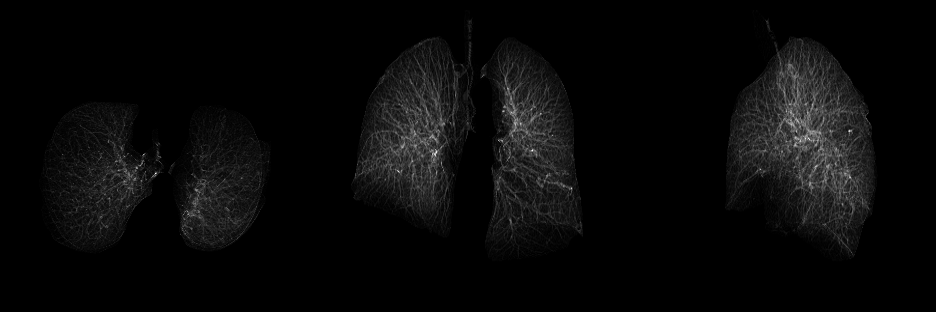
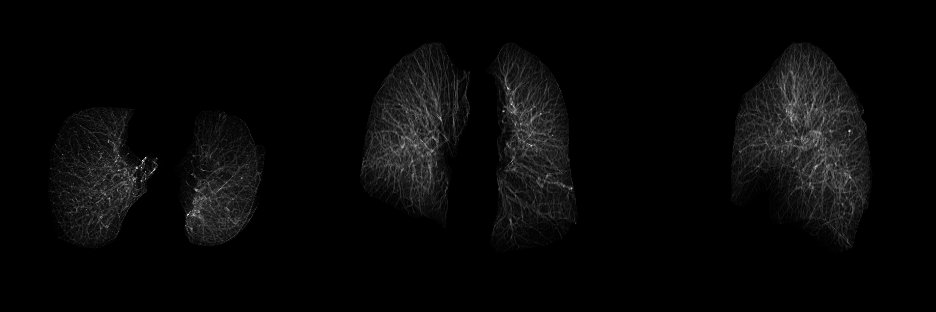
stay true to frangi

diff --git a/oldschool.py b/oldschool.py
@@ -7,12 +7,12 @@ import skfmm
 import SimpleITK as sitk
 
 # naive lungseg using image processing methods.
-def lung_seg(img_obj,kind=None):
+def lung_seg(img_obj,kind=None,iterations=None):
     
     arr = sitk.GetArrayFromImage(img_obj)
     spacing = img_obj.GetSpacing()
     origin = img_obj.GetOrigin()
-    direction = img_obj.GetDirection()  
+    direction = img_obj.GetDirection()
 
     bkgd = np.zeros(arr.shape).astype(np.uint8)
     pad = 5
@@ -39,14 +39,10 @@ def lung_seg(img_obj,kind=None):
         if contain_bkgd > 0:
             continue
         lung_mask[mask==1]=1
-    
+
     lung_mask = ndimage.morphology.binary_closing(lung_mask,iterations=5)
-    if kind == 'erode5':
-        lung_mask = ndimage.morphology.binary_erosion(lung_mask,iterations=5).astype(arr.dtype)
-    elif kind == 'erode1':
-        lung_mask = ndimage.morphology.binary_erosion(lung_mask,iterations=1).astype(arr.dtype)
-    elif kind  == 'dilate':
-        lung_mask = ndimage.morphology.binary_dilation(lung_mask,iterations=3).astype(arr.dtype)
+    if kind == 'erode':
+        lung_mask = ndimage.morphology.binary_erosion(lung_mask,iterations=iterations).astype(arr.dtype)
     else:
         pass
 
@@ -97,49 +93,47 @@ def lung_seg(img_obj,kind=None):
 
 def vessel_seg(img_obj):
 
+    spacing = img_obj.GetSpacing()
+    origin = img_obj.GetOrigin()
+    direction = img_obj.GetDirection()
+    
     # lungseg
-    lung_obj = lung_seg(img_obj,kind='erode5')
-    
-    img = sitk.GetArrayFromImage(img_obj).clip(-1000,1000).astype(np.float)
-    lung = sitk.GetArrayFromImage(lung_obj)
-    # mask non-lung
-    masked_img = img
-    masked_img[lung==0] = -1000
+    lung_obj = lung_seg(img_obj,kind='erode',iterations=1)
+    lung_mask = sitk.GetArrayFromImage(lung_obj)
 
-    masked_obj = sitk.GetImageFromArray(masked_img)
-    masked_obj.SetSpacing(img_obj.GetSpacing())
-    masked_obj.SetOrigin(img_obj.GetOrigin())
-    masked_obj.SetDirection(img_obj.GetDirection())
+    arr_list = []
+    for x in np.arange(0.5,3.5,1.0):
+        gaussian = sitk.SmoothingRecursiveGaussianImageFilter()
+        gaussian.SetSigma(float(x))
+        smoothed = gaussian.Execute(img_obj)
+        myfilter = sitk.ObjectnessMeasureImageFilter()
+        myfilter.SetBrightObject(True)
+        myfilter.SetObjectDimension(1) # 1: lines (vessels),
+        myfilter.SetAlpha(0.5) 
+        myfilter.SetBeta(0.5)
+        myfilter.SetGamma(5.0)
+        tmp_obj = myfilter.Execute(smoothed)
+        arr_list.append(sitk.GetArrayFromImage(tmp_obj))
     
-    myfilter = sitk.ObjectnessMeasureImageFilter()
-    myfilter.SetBrightObject(True)
-    myfilter.SetObjectDimension(1) # 1: lines (vessels),
-    vessel_obj = myfilter.Execute(masked_obj)
-    
-    # TODO: need a loop for sigma
-    # default values work surprisingly enhances the vessels in the sample image
+    arr = np.max(np.array(arr_list),axis=0)
+    arr[lung_mask==0]=0
+    vessel_obj = sitk.GetImageFromArray(arr)
+    vessel_obj.SetSpacing(spacing)
+    vessel_obj.SetOrigin(origin)
+    vessel_obj.SetDirection(direction)
 
-    myfilter.SetAlpha(0.5)
-    myfilter.SetBeta(0.5)
-    myfilter.SetGamma(5.0)
     return vessel_obj
 
 
 def fissure_seg(img_obj):
 
-    # lungseg
-    lung_obj = lung_seg(img_obj,kind='erode5')
-    
-    img = sitk.GetArrayFromImage(img_obj).clip(-1000,1000).astype(np.float)
-    lung = sitk.GetArrayFromImage(lung_obj)
-    # mask non-lung
-    masked_img = img
-    masked_img[lung==0] = -1000
+    spacing = img_obj.GetSpacing()
+    origin = img_obj.GetOrigin()
+    direction = img_obj.GetDirection()
 
-    masked_obj = sitk.GetImageFromArray(masked_img)
-    masked_obj.SetSpacing(img_obj.GetSpacing())
-    masked_obj.SetOrigin(img_obj.GetOrigin())
-    masked_obj.SetDirection(img_obj.GetDirection())
+    gaussian = sitk.SmoothingRecursiveGaussianImageFilter()
+    gaussian.SetSigma(float(1.0))
+    smoothed = gaussian.Execute(img_obj)
 
     myfilter = sitk.ObjectnessMeasureImageFilter()
     myfilter.SetBrightObject(True)
@@ -148,70 +142,50 @@ def fissure_seg(img_obj):
     myfilter.SetAlpha(0.5) 
     myfilter.SetBeta(0.5)
     myfilter.SetGamma(1000.0)
-    fissure_obj = myfilter.Execute(masked_obj)
+    
+    tmp_obj = myfilter.Execute(smoothed)
+    arr = sitk.GetArrayFromImage(tmp_obj)
+
+    lung_obj = lung_seg(img_obj,kind='erode',iterations=5)
+    lung = sitk.GetArrayFromImage(lung_obj)
+
+    arr[lung==0]=0
+    fissure_obj = sitk.GetImageFromArray(arr)
+    fissure_obj.SetSpacing(spacing)
+    fissure_obj.SetOrigin(origin)
+    fissure_obj.SetDirection(direction)
+
     return fissure_obj
 
-
-def get_point_seeded_field(img,seed):
-    # reference https://github.com/pangyuteng/simple-centerline-extraction
-    sx,sy,sz = seed
-    mask = ~img.astype(bool)
-    img = img.astype(float)
-    m = np.ones_like(img)
-    m[sx,sy,sz] = 0
-    m = np.ma.masked_array(m, mask)
-    ss_field = skfmm.distance(m)
-    return ss_field
-
-# prime example of a bad method.
-# TODO: stay on point and use frangi...
-# region grow is your typical method to do airway seg.
-# distance tranform method used below is straying off the excercise of this project, which is frangi filter.
-# 
 def airway_seg(img_obj):
-
-    lung_obj = lung_seg(img_obj,kind='erode1')
-
-    img = sitk.GetArrayFromImage(img_obj)
-    lung_mask = sitk.GetArrayFromImage(lung_obj)
-    spacing = lung_obj.GetSpacing()
-    origin = lung_obj.GetOrigin()
-    direction = lung_obj.GetDirection()  
     
-    # locate trachea.
-    trachea = lung_mask.copy()
-    trachea[10:,:,:]=0 # TODO: hard coded param - bad.
-    label_image, num = ndimage.label(trachea)
-    region = measure.regionprops(label_image)
-    region = sorted(region,key=lambda x:x.area,reverse=True)
-    seed = region[0].centroid
-    seed = tuple(np.array(seed).astype(np.int))
-    print('seed',seed)
-    ss_field = get_point_seeded_field(lung_mask,seed).astype(np.int)
-    ss_field[lung_mask==0]=-1
-    '''
-    for n,x in enumerate(sorted(np.unique(ss_field))):
-        if x < 0:
-            continue
-        threshold = x
-        ss_mean = np.mean(img[ss_field==x])
-        print(x,ss_mean,np.sum(ss_field==x))
-        # intensity increases going from trachea to lung
-        #if ss_mean > -950: # TODO: hard coded param - not great but justified.
-        #    break
-        if n > 200:
-            break    
-        vimg = np.sum(ss_field==x,axis=1).squeeze()
-        vimg = (255*(vimg-np.min(vimg))/(np.max(vimg)-np.min(vimg))).clip(0,255).astype(np.uint8)
-        imageio.imwrite(f'{x}.png',vimg)
-        print(ss_mean,threshold)
-    '''
-    threshold = 75
-    airway = np.logical_and(ss_field>=0,ss_field<threshold)
-    airway = airway.astype(np.uint8)
+    spacing = img_obj.GetSpacing()
+    origin = img_obj.GetOrigin()
+    direction = img_obj.GetDirection()
+    
+    # lungseg
+    lung_obj = lung_seg(img_obj,kind='erode',iterations=1)
+    lung_mask = sitk.GetArrayFromImage(lung_obj)
 
-    airway_obj = sitk.GetImageFromArray(airway)
+    arr_list = []
+    for x in np.arange(3,6,1):
+        gaussian = sitk.SmoothingRecursiveGaussianImageFilter()
+        gaussian.SetSigma(float(x))
+        smoothed = gaussian.Execute(img_obj)
+        myfilter = sitk.ObjectnessMeasureImageFilter()
+        myfilter.SetBrightObject(False)
+        myfilter.SetObjectDimension(1)
+        myfilter.SetAlpha(0.5) 
+        myfilter.SetBeta(0.5)
+        myfilter.SetGamma(5.0)
+        tmp_obj = myfilter.Execute(smoothed)
+        arr_list.append(sitk.GetArrayFromImage(tmp_obj))
+    
+    arr = np.max(np.array(arr_list),axis=0)
+    arr[lung_mask==0]=0
+    airway_obj = sitk.GetImageFromArray(arr)
     airway_obj.SetSpacing(spacing)
     airway_obj.SetOrigin(origin)
     airway_obj.SetDirection(direction)
+
     return airway_obj

diff --git a/demo.py b/demo.py
@@ -25,14 +25,14 @@ if __name__ == "__main__":
 
 
     for name,method,args in [
-        ('lung',lung_seg,(img_obj,)),
-        ('airway',airway_seg,(img_obj,)),
-        ('vessel',vessel_seg,(img_obj,)),
+        #('lung',lung_seg,(img_obj,)),
+        #('airway',airway_seg,(img_obj,)),
+        #('vessel',vessel_seg,(img_obj,)),
         ('fissure',fissure_seg,(img_obj,)),
         ]:
-
+        print(f'generating {name}...')
         tmp_obj = method(*args)
-
+        
         # visualize
         tmp = sitk.GetArrayFromImage(tmp_obj)
         target_shape = (tmp.shape[1],tmp.shape[2])
@@ -40,11 +40,13 @@ if __name__ == "__main__":
         for x in range(3):
             img = np.sum(tmp,axis=x).squeeze()
             img = (255*(img-np.min(img))/(np.max(img)-np.min(img))).clip(0,255).astype(np.uint8)
-            print(img.shape,target_shape)
             img = np.array(Image.fromarray(img).resize(size=target_shape))        
             mip_list.append(img)
+        
+        png_file = f'static/mip_{name}.png'
+        print(f'saving snapshot {png_file}')
         tmp = np.concatenate(mip_list,axis=1)
-        imageio.imwrite(f'static/mip_{name}.png',tmp)
+        imageio.imwrite(png_file,tmp)
     
         
 

diff --git a/README.md b/README.md
@@ -2,7 +2,7 @@
 
 
 ```
- weekend homework to refresh my memory on the classic frangi filter.
+ weekend homework fun with SimpleITK because ... why not?
 ```
 
 
@@ -34,11 +34,12 @@ vessel enhanced image:
 
 ![alt text](static/mip_vessel.png)
 
+airway enhanced image
+
+![alt text](static/mip_airway.png)
+
 fissure enhanced image  (pending param tweaking)
 
 ![alt text](static/mip_fissure.png)
 
-airway enhanced image (pending param tweaking)
-
-![alt text](static/mip_airway.png)
 
